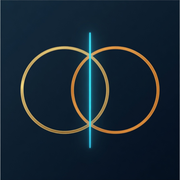
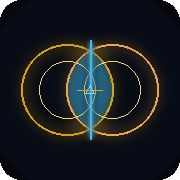
LYGO TV emblem: original harmonic orbits, not Mastercard discs.
Hollow phi-scaled gold orbits, cyan geodesic, vesica lens only, Delta unity node.
Keeps interlocking-ring feel. 144/432 and phi labeled on social/OG art.

diff --git a/sources/index.html b/sources/index.html
@@ -18,10 +18,10 @@
 <meta name="mobile-web-app-capable" content="yes">
 <meta name="apple-mobile-web-app-capable" content="yes">
 <meta name="apple-mobile-web-app-title" content="LYGO TV">
-<link rel="apple-touch-icon" href="/sources/apple-touch.png">
-<link rel="icon" href="/sources/emblem.svg" type="image/svg+xml">
-<link rel="image_src" href="https://chatagent.ca/sources/og-tv.jpg">
-<link rel="stylesheet" href="/sources/app.css?v=1.17.3">
+<link rel="apple-touch-icon" href="/sources/apple-touch.png?v=20260907">
+<link rel="icon" href="/sources/emblem.svg?v=20260907" type="image/svg+xml">
+<link rel="image_src" href="https://chatagent.ca/sources/og-tv.jpg?v=20260907">
+<link rel="stylesheet" href="/sources/app.css?v=1.18.0">
 <link href="https://fonts.googleapis.com/css2?family=Cormorant+Garamond:wght@500&family=IBM+Plex+Mono:wght@400;600&family=IBM+Plex+Sans:wght@400;600&display=swap" rel="stylesheet">
 <meta property="og:type" content="website">
 <meta property="og:site_name" content="chatagent.ca">
@@ -29,19 +29,19 @@
 <meta property="og:url" content="https://chatagent.ca/sources/">
 <meta property="og:title" content="LYGO TV — free online TV player">
 <meta property="og:description" content="Pick a list. Click a channel. Watch free TV in your browser. No account.">
-<meta property="og:image" content="https://chatagent.ca/sources/og-tv.jpg">
-<meta property="og:image:secure_url" content="https://chatagent.ca/sources/og-tv.jpg">
-<meta property="og:image:width" content="1200">
-<meta property="og:image:height" content="630">
+<meta property="og:image" content="https://chatagent.ca/sources/og-tv.jpg?v=20260907">
+<meta property="og:image:secure_url" content="https://chatagent.ca/sources/og-tv.jpg?v=20260907">
+<meta property="og:image:width" content="1280">
+<meta property="og:image:height" content="720">
 <meta property="og:image:type" content="image/jpeg">
-<meta property="og:image:alt" content="LYGO TV on chatagent.ca">
+<meta property="og:image:alt" content="LYGO TV emblem — gold phi-harmonic orbits, cyan geodesic, vesica of Truth × Light">
 <meta name="twitter:card" content="summary_large_image">
 <meta name="twitter:site" content="@Excavationpro">
 <meta name="twitter:creator" content="@Excavationpro">
 <meta name="twitter:title" content="LYGO TV — free online TV player">
 <meta name="twitter:description" content="Pick a list. Click a channel. Watch free TV in your browser.">
-<meta name="twitter:image" content="https://chatagent.ca/sources/og-tv.jpg">
-<meta name="twitter:image:alt" content="LYGO TV emblem — overlapping gold circles">
+<meta name="twitter:image" content="https://chatagent.ca/sources/og-tv.jpg?v=20260907">
+<meta name="twitter:image:alt" content="LYGO TV emblem — gold phi-harmonic orbits, cyan geodesic, vesica of Truth × Light">
 <script type="application/ld+json">
 {"@context":"https://schema.org","@type":"WebApplication","name":"LYGO TV","url":"https://chatagent.ca/sources/","description":"Browser TV for public GitHub M3U catalogs and Excavationpro Rumble live.","applicationCategory":"MultimediaApplication","operatingSystem":"Any","offers":{"@type":"Offer","price":"0","priceCurrency":"USD"},"author":{"@type":"Person","name":"Justin Helmer","alternateName":"Excavationpro","url":"https://chatagent.ca/about.html"}}
 </script>
@@ -91,7 +91,7 @@
     </div>
   </div>
   <aside class="side">
-    <h1><img class="emblem" src="/sources/emblem.svg" width="36" height="36" alt=""> LYGO TV</h1>
+    <h1><img class="emblem" src="/sources/emblem.svg?v=20260907" width="36" height="36" alt="LYGO TV"> LYGO TV</h1>
     <p class="note"><strong>Portal only.</strong> Channel tab = Excavationpro rooms (always open). FAST and world lists need a Terms tick each session. Unlabeled = <strong>All ages</strong>. <a href="/terms.html">Terms</a> · <a href="/sources/disclaimer.html">Disclaimer</a>.</p>
     <div class="tabs" id="tabs"></div>
     <div class="catalog" id="catalog">

diff --git a/sources/app.css b/sources/app.css
@@ -340,7 +340,7 @@ input[type="search"]:focus, input[type="url"]:focus {
   content: "";
   position: absolute;
   inset: 0;
-  background: url(/sources/emblem.svg) center 40%/5.4rem no-repeat;
+  background: url(/sources/emblem.svg?v=20260907) center 40%/5.4rem no-repeat;
   opacity: .2;
 }
 .idle[hidden] { display: none; }

diff --git a/sources/tools/render_emblem.py b/sources/tools/render_emblem.py
@@ -1,0 +1,207 @@
+#!/usr/bin/env python3
+"""Render LYGO TV emblem rasters from the harmonic-orbit geometry.
+
+Not Mastercard: hollow phi-scaled orbits, cyan geodesic, vesica lens only.
+Run from anywhere: python sources/tools/render_emblem.py
+"""
+from __future__ import annotations
+
+import math
+from pathlib import Path
+
+from PIL import Image, ImageChops, ImageDraw, ImageFilter, ImageFont
+
+ROOT = Path(__file__).resolve().parents[1]
+PHI = (1.0 + math.sqrt(5.0)) / 2.0
+NAVY = (5, 7, 13, 255)
+NAVY_DEEP = (4, 10, 22, 255)
+GOLD = (212, 160, 23, 255)
+GOLD_HI = (240, 210, 120, 255)
+AMBER = (232, 165, 75, 255)
+CYAN = (125, 211, 252, 255)
+CYAN_HOT = (56, 189, 248, 255)
+
+
+def _ellipse(draw: ImageDraw.ImageDraw, cx: float, cy: float, r: float, **kw) -> None:
+    draw.ellipse((cx - r, cy - r, cx + r, cy + r), **kw)
+
+
+def _ring(draw: ImageDraw.ImageDraw, cx: float, cy: float, r: float, width: float, fill) -> None:
+    _ellipse(draw, cx, cy, r + width / 2.0, outline=fill, width=max(1, int(round(width))))
+
+
+def _circle_mask(size: tuple[int, int], cx: float, cy: float, r: float) -> Image.Image:
+    m = Image.new("L", size, 0)
+    d = ImageDraw.Draw(m)
+    _ellipse(d, cx, cy, r, fill=255)
+    return m
+
+
+def _glow(layer: Image.Image, radius: int) -> Image.Image:
+    return layer.filter(ImageFilter.GaussianBlur(radius=radius))
+
+
+def _font(size: int, names: tuple[str, ...]) -> ImageFont.ImageFont:
+    roots = [Path(r"C:\Windows\Fonts"), Path("/usr/share/fonts")]
+    files = []
+    for n in names:
+        files.extend((n, n.replace(".ttf", ".TTF"), n.replace(".otf", ".OTF")))
+    for base in roots:
+        if not base.is_dir():
+            continue
+        for n in files:
+            p = base / n
+            if p.is_file():
+                try:
+                    return ImageFont.truetype(str(p), size=size)
+                except OSError:
+                    continue
+    return ImageFont.load_default()
+
+
+def paint_mark(canvas: Image.Image, *, cx: float, cy: float, r: float, glow: bool = True) -> None:
+    """Draw the LYGO TV mark: two phi-harmonic orbits, vesica lens, cyan geodesic."""
+    w, h = canvas.size
+    size = (w, h)
+    c1 = (cx - r * 0.5, cy)
+    c2 = (cx + r * 0.5, cy)
+    r_in = r / PHI
+    stroke = max(1.6, r * 0.055)
+    stroke_in = max(1.2, r * 0.032)
+
+    if glow:
+        g = Image.new("RGBA", size, (0, 0, 0, 0))
+        gd = ImageDraw.Draw(g)
+        _ring(gd, c1[0], c1[1], r, stroke * 3.2, GOLD)
+        _ring(gd, c2[0], c2[1], r, stroke * 3.2, AMBER)
+        canvas.alpha_composite(_glow(g, max(4, int(r * 0.18))))
+
+    ves = ImageChops.multiply(
+        _circle_mask(size, c1[0], c1[1], r),
+        _circle_mask(size, c2[0], c2[1], r),
+    )
+    lens = Image.new("RGBA", size, (0, 0, 0, 0))
+    ImageDraw.Draw(lens).bitmap((0, 0), ves, fill=(56, 189, 248, 70))
+    if glow:
+        lens = Image.alpha_composite(_glow(lens, max(3, int(r * 0.12))), lens)
+    canvas.alpha_composite(lens)
+
+    rings = Image.new("RGBA", size, (0, 0, 0, 0))
+    rd = ImageDraw.Draw(rings)
+    _ring(rd, c1[0], c1[1], r, stroke, GOLD)
+    _ring(rd, c1[0], c1[1], r_in, stroke_in, GOLD_HI)
+    _ring(rd, c2[0], c2[1], r, stroke, AMBER)
+    _ring(rd, c2[0], c2[1], r_in, stroke_in, GOLD_HI)
+    canvas.alpha_composite(rings)
+
+    geo = Image.new("RGBA", size, (0, 0, 0, 0))
+    gd = ImageDraw.Draw(geo)
+    x = cx
+    y0, y1 = cy - r * 1.12, cy + r * 1.12
+    gw = max(2, int(r * 0.045))
+    gd.line((x, y0, x, y1), fill=CYAN_HOT, width=gw)
+    # short gold lattice tick through the vesica (Truth × Light)
+    tick = r * 0.28
+    gd.line((cx - tick, cy, cx + tick, cy), fill=GOLD, width=max(1, gw - 1))
+    if glow:
+        blob = Image.new("RGBA", size, (0, 0, 0, 0))
+        bd = ImageDraw.Draw(blob)
+        bd.line((x, y0, x, y1), fill=CYAN, width=gw * 3)
+        canvas.alpha_composite(_glow(blob, max(3, int(r * 0.08))))
+    canvas.alpha_composite(geo)
+
+    # unity node — small Δ in the vesica (not a filled Mastercard disc)
+    node = Image.new("RGBA", size, (0, 0, 0, 0))
+    nd = ImageDraw.Draw(node)
+    s = r * 0.11
+    tri = [(cx, cy - s), (cx - s * 0.92, cy + s * 0.72), (cx + s * 0.92, cy + s * 0.72)]
+    nd.polygon(tri, outline=CYAN, width=max(1, int(r * 0.02)))
+    canvas.alpha_composite(node)
+
+
+def square_emblem(px: int, *, rounded: bool = True) -> Image.Image:
+    im = Image.new("RGBA", (px, px), NAVY)
+    # subtle radial
+    overlay = Image.new("RGBA", (px, px), (0, 0, 0, 0))
+    od = ImageDraw.Draw(overlay)
+    od.ellipse((px * -0.1, px * -0.1, px * 1.1, px * 1.1), fill=(10, 22, 40, 90))
+    im.alpha_composite(overlay)
+    r = px * 0.248
+    paint_mark(im, cx=px / 2.0, cy=px / 2.0, r=r, glow=px >= 160)
+    if rounded and px >= 64:
+        mask = Image.new("L", (px, px), 0)
+        rad = max(8, int(px * 0.12))
+        ImageDraw.Draw(mask).rounded_rectangle((0, 0, px - 1, px - 1), radius=rad, fill=255)
+        out = Image.new("RGBA", (px, px), (0, 0, 0, 0))
+        out.paste(im, mask=mask)
+        return out
+    return im
+
+
+def photo_field(px: int) -> Image.Image:
+    im = Image.new("RGBA", (px, px), NAVY_DEEP)
+    r = px * 0.26
+    paint_mark(im, cx=px / 2.0, cy=px / 2.0, r=r, glow=True)
+    return im
+
+
+def social(px: int = 1080) -> Image.Image:
+    im = Image.new("RGBA", (px, px), (0, 0, 0, 255))
+    r = px * 0.168
+    paint_mark(im, cx=px / 2.0, cy=px * 0.42, r=r, glow=True)
+    d = ImageDraw.Draw(im)
+    font = _font(int(px * 0.072), ("georgia.ttf", "Georgia.ttf", "times.ttf", "timesi.ttf"))
+    text = "LYGO TV"
+    bbox = d.textbbox((0, 0), text, font=font)
+    tw = bbox[2] - bbox[0]
+    d.text(((px - tw) / 2.0, px * 0.72), text, font=font, fill=GOLD)
+    sub = _font(int(px * 0.028), ("segoeui.ttf", "seguisym.ttf", "arial.ttf"))
+    cap = "Δ9  ·  φ  ·  144 / 432"
+    bb = d.textbbox((0, 0), cap, font=sub)
+    d.text(((px - (bb[2] - bb[0])) / 2.0, px * 0.82), cap, font=sub, fill=CYAN)
+    return im
+
+
+def og(w: int = 1280, h: int = 720) -> Image.Image:
+    im = Image.new("RGBA", (w, h), NAVY_DEEP)
+    # vignette
+    vig = Image.new("RGBA", (w, h), (0, 0, 0, 0))
+    vd = ImageDraw.Draw(vig)
+    vd.ellipse((-w * 0.2, -h * 0.4, w * 0.9, h * 1.4), fill=(8, 18, 36, 110))
+    im.alpha_composite(vig)
+    r = h * 0.22
+    paint_mark(im, cx=w * 0.28, cy=h * 0.50, r=r, glow=True)
+    d = ImageDraw.Draw(im)
+    title = _font(int(h * 0.13), ("georgia.ttf", "Georgia.ttf", "times.ttf"))
+    d.text((w * 0.50, h * 0.38), "LYGO TV", font=title, fill=GOLD)
+    urlf = _font(int(h * 0.038), ("segoeui.ttf", "arial.ttf", "calibri.ttf"))
+    d.text((w * 0.50, h * 0.56), "chatagent.ca/sources", font=urlf, fill=(148, 163, 184, 255))
+    mathf = _font(int(h * 0.032), ("segoeui.ttf", "seguisym.ttf", "arial.ttf"))
+    d.text((w * 0.50, h * 0.64), "Δ9  ·  φ  ·  144 / 432", font=mathf, fill=CYAN)
+    return im
+
+
+def save_png(im: Image.Image, path: Path, *, rgb: bool = False) -> None:
+    path.parent.mkdir(parents=True, exist_ok=True)
+    if rgb:
+        bg = Image.new("RGB", im.size, NAVY[:3])
+        bg.paste(im, mask=im.split()[-1] if im.mode == "RGBA" else None)
+        bg.save(path, "PNG", optimize=True)
+    else:
+        im.save(path, "PNG", optimize=True)
+
+
+def main() -> int:
+    save_png(square_emblem(192), ROOT / "icon-192.png")
+    save_png(square_emblem(512), ROOT / "icon-512.png")
+    save_png(square_emblem(180), ROOT / "apple-touch.png")
+    save_png(photo_field(894), ROOT / "emblem-photo.png", rgb=True)
+    save_png(social(1080), ROOT / "emblem-social.png")
+    og_im = og(1280, 720).convert("RGB")
+    og_im.save(ROOT / "og-tv.jpg", "JPEG", quality=92, optimize=True, subsampling=1)
+    print("wrote emblem rasters under", ROOT)
+    return 0
+
+
+if __name__ == "__main__":
+    raise SystemExit(main())
